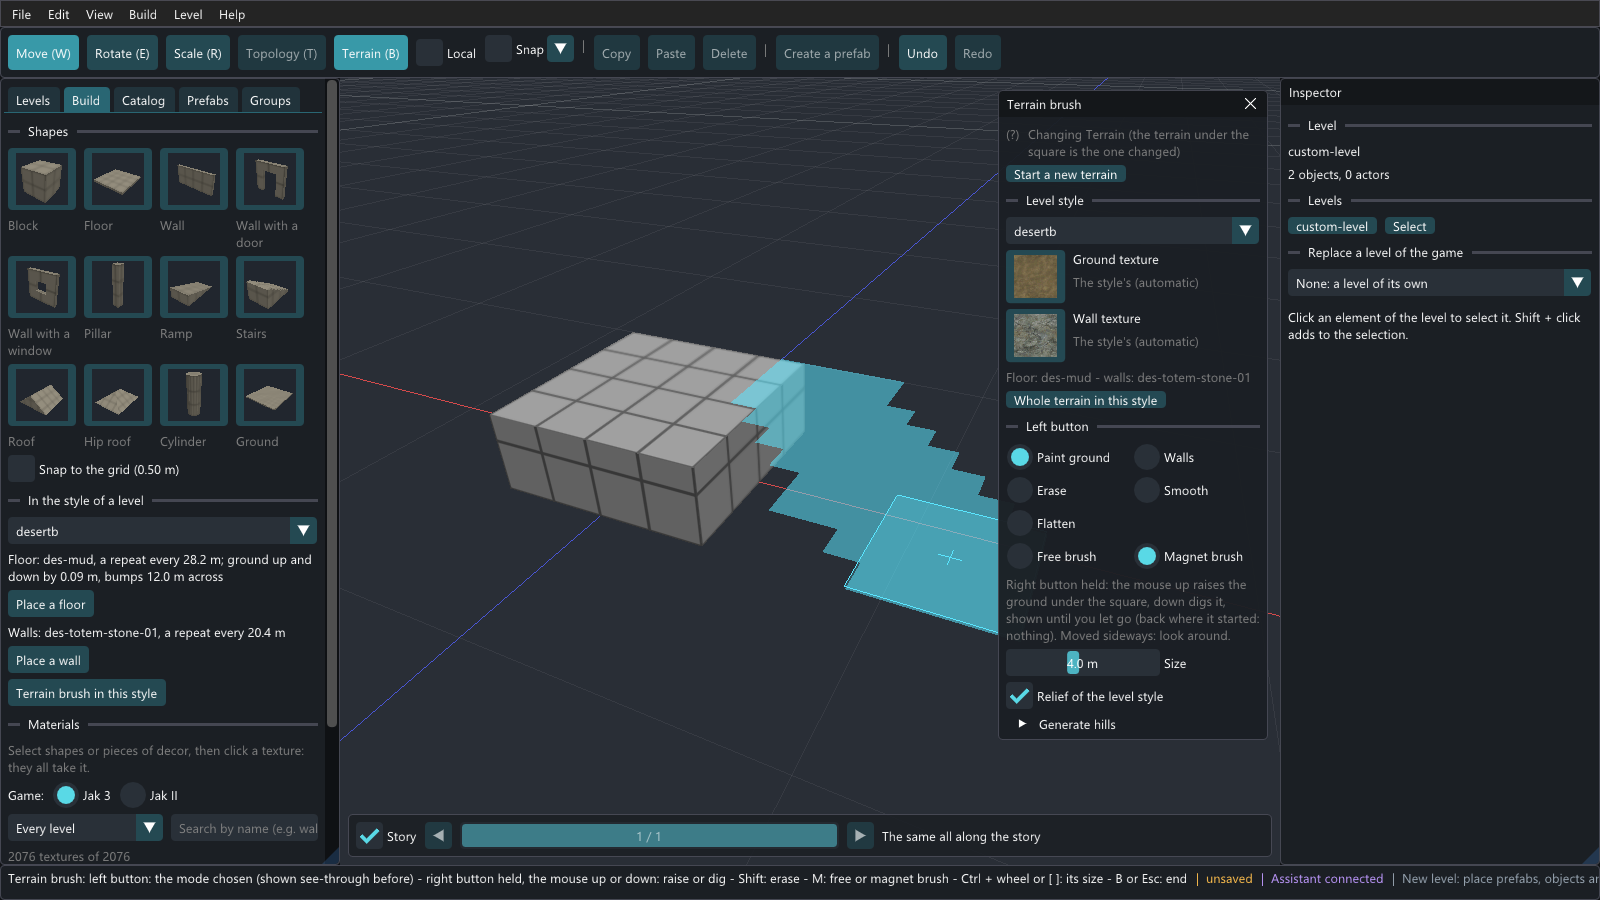
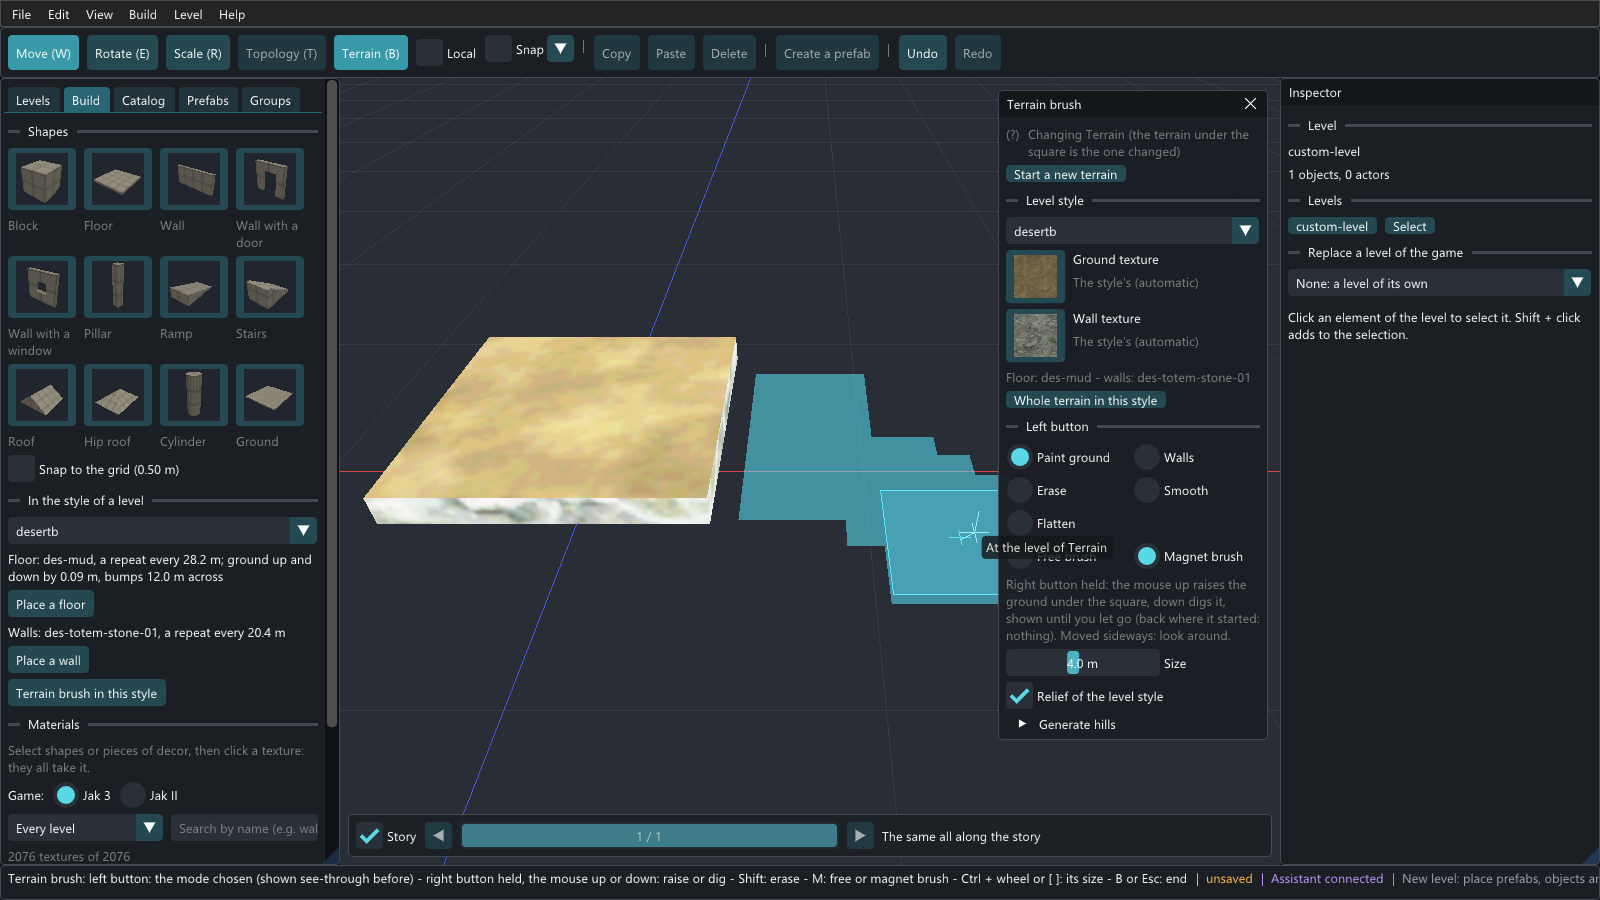
fix: the magnet brush keeps the level of the ground beside it; the right button erasing lays nothing (AI-assisted)
From the user's tries:
- the magnet brush no longer moves the square against the decor's edge: the square follows the
  cursor, and the ground it lays keeps the level of the ground already laid beside it (the
  terrain painted, made larger at its exact level, else the top of the decor next to it, 2 cm
  under), shown at that level before the click and while the button is held;
- in Erase mode the right button never lays ground: it raises or digs what is there, and shows no
  height where it would change nothing.
Captures of the magnet made again.

Changed region(s): [[0.2188, 0.3733, 0.625, 0.7156], [0.5938, 0.5911, 0.6875, 0.6222], [0.5938, 0.4978, 0.625, 0.56]]

diff --git a/src/app/terrain_tool.cpp b/src/app/terrain_tool.cpp
@@ -298,6 +298,7 @@ BrushStroke App::terrain_stamp(BrushMode mode, Vec3 center, float amount, float 
   st.seed = brush.seed;
   st.look = m_stroke_look;
   st.amount = amount;
+  st.lay = brush.mode != BrushMode::Erase;  // the right button erasing: it raises or digs what is there only
   // new ground with the relief of the style (raise and dig lay some where there is none); flat where
   // it sticks to the decor (it meets it with no step)
   const LevelStyle* style = m_style_level.empty() ? nullptr : level_style(m_style_level);
@@ -374,25 +375,38 @@ void App::terrain_tool(bool clicked, bool released) {
   if (!m_terrain_change && m_brush_hit_node && m_brush_hit_node != m_terrain_node)
     if (const Node* h = scene.find(m_brush_hit_node); h && h->extras.contains("og_terrain_grid")) m_terrain_node = h->id;
   const BrushMode mode = io.KeyShift ? inverted(brush.mode) : brush.mode;
-  // the magnet brush (ground, walls, flattening): the square stuck to the edge of the decor beside
-  // it, going under it by half a cell (the cells it lays reach the edge), at the decor's height just
-  // below (no flicker where they meet)
+  // the magnet brush (ground, walls, flattening): the square goes where the cursor is, the ground it
+  // lays at the level of the ground already laid beside it: the terrain painted's nearest, else the
+  // top of the decor beside it (just under it: no flicker where they meet)
   m_magnet_valid = false;
   if (brush.magnet && m_brush_valid && (mode == BrushMode::Paint || mode == BrushMode::Wall || mode == BrushMode::Flatten)) {
-    const float cell = m_terrain_change ? m_terrain_grid.cell : scene.find(m_terrain_node) ? m_terrain_grid_view.cell : brush.cell;
-    const float half = std::max(brush.size * 0.5f, cell * 0.5f);
-    if (length(m_brush_point - m_magnet_asked) > 0.02f || brush.size != m_magnet_asked_size) {
+    const Node* tn = scene.find(m_terrain_node);
+    const TerrainGrid* g = m_terrain_change ? &m_terrain_grid : tn ? &m_terrain_grid_view : nullptr;
+    const float cell = g && g->w ? g->cell : brush.cell;
+    const float reach = std::max(brush.size * 0.5f, cell * 0.5f) + 2.f;
+    if (length(m_brush_point - m_magnet_asked) > 0.02f || brush.size != m_magnet_asked_size || m_terrain_change) {
       m_magnet_asked = m_brush_point;
       m_magnet_asked_size = brush.size;
       m_magnet_node = 0;
-      if (!nearest_decor_edge(scene, m_brush_point, half + 1.5f, 8.f, m_terrain_node, &m_magnet_edge, &m_magnet_node))
+      Vec3 level;
+      if (tn && g && g->w && terrain_level_near(*g, scene.world(*tn).inverse().point(m_brush_point), reach, &level)) {
+        m_magnet_edge = scene.world(*tn).point(level);
+        m_magnet_node = tn->id;
+        m_magnet_below = 0.f;
+      } else if (nearest_decor_edge(scene, m_brush_point, reach, 8.f, m_terrain_node, &m_magnet_edge, &m_magnet_node)) {
+        // another terrain beside: the one painted from now on, made larger at its level
+        const Node* found = scene.find(m_magnet_node);
+        const bool terrain = found && found->extras.contains("og_terrain_grid");
+        if (terrain && !m_terrain_change) m_terrain_node = found->id;
+        m_magnet_below = terrain ? 0.f : 0.02f;
+      } else {
         m_magnet_node = 0;
+      }
     }
     if (m_magnet_node) {
       m_magnet_valid = true;
       m_brush_raw = m_brush_point;
-      m_brush_point = magnet_center(m_brush_point, m_magnet_edge, half, cell * 0.5f + 0.05f);
-      m_brush_point.y = m_magnet_edge.y - 0.02f;
+      m_brush_point.y = m_magnet_edge.y - m_magnet_below;
       // a stroke going on lays its ground at the height of what it sticks to from there on, flat
       if (const Node* tn = m_terrain_change ? scene.find(m_terrain_node) : nullptr) {
         m_stroke_height = scene.world(*tn).inverse().point(m_brush_point).y;
@@ -562,9 +576,10 @@ void App::draw_terrain_overlay() {
   const TerrainGrid& before = node ? grid : empty;
   if (m_terrain_sculpting) {
     const float h = terrain_sculpt_height();
-    draw_terrain_preview(before, terrain_stamp(h > 0 ? BrushMode::Raise : BrushMode::Dig, c, std::fabs(h), c.y), world);
+    // its height next to it (nothing when it changes nothing: erasing over the void)
     Vec2 s;
-    if (renderer.project(m_brush_point, &s)) {
+    if (draw_terrain_preview(before, terrain_stamp(h > 0 ? BrushMode::Raise : BrushMode::Dig, c, std::fabs(h), c.y), world) &&
+        renderer.project(m_brush_point, &s)) {
       ImDrawList* dl = ImGui::GetForegroundDrawList();
       const std::string text = strf("%+.2f m", h);
       const ImVec2 at(m_vp_x + s.x + 16, m_vp_y + s.y - 8), size = ImGui::CalcTextSize(text.c_str());
@@ -578,13 +593,14 @@ void App::draw_terrain_overlay() {
   draw_terrain_preview(before, terrain_stamp(mode, c, amount, terrain_start_height(before, node)), world);
 }
 
-void App::draw_terrain_preview(const TerrainGrid& before, const BrushStroke& stamp, const Mat4& world) {
+bool App::draw_terrain_preview(const TerrainGrid& before, const BrushStroke& stamp, const Mat4& world) {
   TerrainGrid after = before;
-  if (!apply_brush(after, stamp)) return;
+  if (!apply_brush(after, stamp)) return false;
   const float cl = after.cell, half = stamp.size * 0.5f;
   draw_terrain_ghost(before, after, (int)std::floor((stamp.center.x - half) / cl) - 1, (int)std::floor((stamp.center.z - half) / cl) - 1,
                      (int)std::floor((stamp.center.x + half) / cl) + 1, (int)std::floor((stamp.center.z + half) / cl) + 1,
                      stamp.mode, world);
+  return true;
 }
 
 void App::draw_terrain_ghost(const TerrainGrid& before, const TerrainGrid& after, int i0, int k0, int i1, int k1,

diff --git a/src/scene/terrain.cpp b/src/scene/terrain.cpp
@@ -195,7 +195,7 @@ bool apply_brush(TerrainGrid& g, const BrushStroke& s) {
   auto corner = [&](int i, int k) -> float& { return g.height[(size_t)(k - g.z0) * (g.w + 1) + (i - g.x0)]; };
   auto cell = [&](int i, int k) -> uint8_t& { return g.cells[(size_t)(k - g.z0) * g.w + (i - g.x0)]; };
   auto look = [&](int i, int k) -> uint8_t& { return g.look[(size_t)(k - g.z0) * g.w + (i - g.x0)]; };
-  if ((s.mode == BrushMode::Raise || s.mode == BrushMode::Dig) &&
+  if ((s.mode == BrushMode::Raise || s.mode == BrushMode::Dig) && s.lay &&
       g.at((int)std::floor(m.x / c), (int)std::floor(m.z / c)) == TerrainGrid::None) {
     BrushStroke ground = s;
     ground.mode = BrushMode::Paint;
@@ -400,15 +400,20 @@ bool nearest_decor_edge(const Scene& scene, Vec3 at, float reach, float window, 
   return found;
 }
 
-Vec3 magnet_center(Vec3 at, Vec3 edge, float half, float overlap) {
-  Vec3 c{at.x, edge.y, at.z};
-  const float dx = edge.x - at.x, dz = edge.z - at.z;
-  if (std::fabs(dx) >= std::fabs(dz)) {
-    if (std::fabs(dx) > 1e-6f) c.x = edge.x - std::copysign(half - overlap, dx);
-  } else {
-    c.z = edge.z - std::copysign(half - overlap, dz);
-  }
-  return c;
+bool terrain_level_near(const TerrainGrid& g, Vec3 at, float reach, Vec3* point) {
+  const float c = g.cell;
+  float best = std::numeric_limits<float>::max();
+  const int i0 = (int)std::floor((at.x - reach) / c), i1 = (int)std::floor((at.x + reach) / c);
+  const int k0 = (int)std::floor((at.z - reach) / c), k1 = (int)std::floor((at.z + reach) / c);
+  for (int k = std::max(k0, g.z0); k <= std::min(k1, g.z0 + g.d - 1); k++)
+    for (int i = std::max(i0, g.x0); i <= std::min(i1, g.x0 + g.w - 1); i++) {
+      if (g.at(i, k) == TerrainGrid::None) continue;
+      const float x = (i + 0.5f) * c, z = (k + 0.5f) * c, d = std::hypot(x - at.x, z - at.z);
+      if (d > reach || d >= best) continue;
+      best = d;
+      *point = {x, (g.corner(i, k) + g.corner(i + 1, k) + g.corner(i, k + 1) + g.corner(i + 1, k + 1)) * 0.25f, z};
+    }
+  return best < std::numeric_limits<float>::max();
 }
 
 bool terrain_height(const TerrainGrid& g, float x, float z, float* y) {

diff --git a/src/app/selftest.cpp b/src/app/selftest.cpp
@@ -2846,12 +2846,34 @@ int run_selftest() {
     Vec3 edge;
     uint32_t on = 0;
     const bool beside = nearest_decor_edge(ms, {12, 0, 5}, 4, 8, 0, &edge, &on);
-    const Vec3 square = magnet_center({12, 0, 5}, edge, 2, 0.55f);
+    const Vec3 top = edge;
     const bool over = nearest_decor_edge(ms, {5, 2, 5}, 4, 8, 0, &edge);
     const bool far = nearest_decor_edge(ms, {20, 0, 5}, 4, 8, 0, &edge);
-    check(beside && on == platform_id && std::fabs(square.x - 11.45f) < 1e-3f && std::fabs(square.y - 2.f) < 1e-3f &&
-              std::fabs(square.z - 5.f) < 1e-3f && !over && !far,
-          "magnet brush: beside a platform the square sticks to its edge at its top, half a cell under it; not over it nor far");
+    // ... and of a terrain painted, the level of its ground nearest to the square (3 m up there)
+    TerrainGrid painted;
+    BrushStroke lay;
+    lay.size = 4.f;
+    lay.center = {2, 0, 2};
+    lay.height = 3.f;
+    apply_brush(painted, lay);
+    Vec3 level;
+    const bool near_terrain = terrain_level_near(painted, {6, 0, 2}, 4, &level);
+    const bool far_terrain = terrain_level_near(painted, {12, 0, 2}, 4, &level);
+    check(beside && on == platform_id && std::fabs(top.x - 10.f) < 1e-3f && std::fabs(top.y - 2.f) < 1e-3f && !over && !far &&
+              near_terrain && !far_terrain,
+          "magnet brush: the level of the platform beside the square (its top), of the terrain painted next to it; not over, not far");
+    // the right button erasing raises the ground there is, never lays any
+    TerrainGrid none2 = painted;
+    BrushStroke rise;
+    rise.mode = BrushMode::Raise;
+    rise.amount = 1.f;
+    rise.size = 4.f;
+    rise.center = {20, 0, 20};
+    rise.lay = false;
+    const bool laid_nothing = !apply_brush(none2, rise) && none2.at(20, 20) == TerrainGrid::None;
+    rise.lay = true;
+    check(laid_nothing && apply_brush(none2, rise) && none2.at(20, 20) == TerrainGrid::Ground,
+          "terrain brush: raising without laying ground (the right button erasing) leaves the void as it is");
   }
 
   {

diff --git a/src/app/app.h b/src/app/app.h
@@ -553,7 +553,7 @@ class App {
     float wall_height = 4.f;  // meters above the ground
     float cell = 1.f;         // a new terrain's cells (meters)
     bool relief = true;       // paint: the level style's bumps
-    bool magnet = false;      // the magnet brush: the square stuck to the edge of the decor beside it
+    bool magnet = false;      // the magnet brush: the ground laid at the level of the ground already there beside it
     Vec2 gen_size{64, 64};    // generate: the rectangle (meters)
     float hills = 12.f, roughness = 0.5f;
     int seed = 1;
@@ -579,8 +579,10 @@ class App {
   Vec3 m_brush_point{0, 0, 0};
   bool m_brush_valid = false;
   uint32_t m_brush_hit_node = 0;  // what the brush is over (0: the plane)
-  // the magnet brush: where the cursor is, the edge of the decor the square sticks to, its piece
+  // the magnet brush: where the cursor is, the point of the ground whose level it keeps, its piece,
+  // how far below it the ground is laid (the decor's: 2 cm, not to flicker)
   bool m_magnet_valid = false;
+  float m_magnet_below = 0.f;
   bool m_stroke_stuck = false;  // the stroke stuck to the decor once: flat all along (a platform made longer)
   Vec3 m_brush_raw{0, 0, 0}, m_magnet_edge{0, 0, 0};
   uint32_t m_magnet_node = 0;
@@ -607,7 +609,7 @@ class App {
   bool terrain_right_button(Vec2 rel);
   void draw_terrain_overlay();
   // what a stamp would change, see-through, before it is done
-  void draw_terrain_preview(const TerrainGrid& before, const BrushStroke& stamp, const Mat4& world);
+  bool draw_terrain_preview(const TerrainGrid& before, const BrushStroke& stamp, const Mat4& world);  // false: it changes nothing
   // the cells of [i0, i1] x [k0, k1] changed from `before` to `after`, see-through
   void draw_terrain_ghost(const TerrainGrid& before, const TerrainGrid& after, int i0, int k0, int i1, int k1,
                           BrushMode mode, const Mat4& world);

diff --git a/tools/capture_docs.py b/tools/capture_docs.py
@@ -299,12 +299,12 @@ def building(args, e):
     # there, outwards (the platform made longer, shown before it is let go)
     e.call('new_level', {'discard_changes': True})
     e.loaded()
-    e.call('place', {'kind': 'shape', 'name': 'box', 'position': [0, 0, 0], 'size': [8, 3, 8]})
+    e.call('terrain', {'mode': 'paint', 'position': [0, 3, 0], 'size': 10, 'relief': False})
     e.call('select', {'ids': []})
-    e.call('set_camera', {'position': [14, 14, 18], 'look_at': [6, 1, 0]})
-    e.ui([{'move': [900, 520]}, wait(3), {'key': 'B'}, wait(5), {'key': 'M'}, wait(2)] + [{'key': '['}, wait(2)] * 6 +
-         [{'move': [860, 470]}, wait(8)], shot=out('building', 'terrain-magnet.png'))
-    e.ui([{'down': 'left'}, wait(2), {'move': [880, 490]}, wait(2), {'move': [910, 520]}, wait(2), {'move': [950, 560]},
+    e.call('set_camera', {'position': [8, 16, 20], 'look_at': [8, 0, 0]})
+    e.ui([{'move': [810, 472]}, wait(3), {'key': 'B'}, wait(5), {'key': 'M'}, wait(2)] + [{'key': '['}, wait(2)] * 6 +
+         [{'move': [811, 472]}, wait(8)], shot=out('building', 'terrain-magnet.png'))
+    e.ui([{'down': 'left'}, wait(2), {'move': [870, 472]}, wait(2), {'move': [930, 500]}, wait(2), {'move': [960, 540]},
           wait(8)], shot=out('building', 'terrain-magnet-held.png'))
     e.ui([{'key': 'Escape'}, wait(3), {'up': 'left'}, wait(3), {'key': 'M'}, wait(2), {'key': 'B'}, wait(3)])
     # the atoll, a level of Jak II, opened in the game rendering

diff --git a/src/scene/terrain.h b/src/scene/terrain.h
@@ -59,6 +59,7 @@ struct BrushStroke {
   float bumps = 0.f, bump_size = 3.f;
   int seed = 1;
   int look = 0;  // paint, wall: the look given to the cells (in the grid's `looks`)
+  bool lay = true;  // raise, dig: ground laid first where there is none under its middle
 };
 
 // Applies the brush: the cells whose middle is in the square, the corners in it (for raise, dig,
@@ -87,9 +88,9 @@ void generate_terrain(TerrainGrid& g, Vec3 center, Vec2 size, float hills, float
 // decor under `at`).
 bool nearest_decor_edge(const Scene& scene, Vec3 at, float reach, float window, uint32_t skip, Vec3* edge,
                         uint32_t* node = nullptr);
-// The middle of a square of half side `half` moved from `at` so that its side towards `edge` goes
-// `overlap` meters past it (along the axis of that side), its height the edge's
-Vec3 magnet_center(Vec3 at, Vec3 edge, float half, float overlap);
+// The ground of a terrain nearest to `at` (its space) within `reach` meters across: the middle of
+// that cell at the height of its ground (a wall's foot for a wall); false when there is none
+bool terrain_level_near(const TerrainGrid& g, Vec3 at, float reach, Vec3* point);
 
 // The terrain's height at (x, z) (bilinear over its cell); false where there is no ground
 bool terrain_height(const TerrainGrid& g, float x, float z, float* y);

diff --git a/README.md b/README.md
@@ -398,17 +398,18 @@ raise the ground there, **down** to dig it: the new shape and its height show un
 once. The brush changes the terrain under the square; the ground takes the textures of a level's
 style automatically (the desert's sand and rock, the slums' cobbles).
 
-**Free brush** or **Magnet brush** (**M**): with the magnet, the square sticks to the edge of the decor next
-to it (a platform, a quay, a floor; not small props), the piece named next to it. The ground laid
-there is at the height of the decor's top (2 cm under it), flat, and goes under its edge so that
-they meet with no gap and no step; a stroke started there keeps that height: a quay made longer
-over the water, a floor brought to a platform.
+**Free brush** or **Magnet brush** (**M**): both follow the cursor. The free brush lays its ground at the
+height where the stroke starts; the magnet brush keeps the level of the ground already laid beside
+the square: the terrain you are painting (made larger at its level), else the top of the decor
+next to it (a platform, a quay: 2 cm under it; not small props), named next to the square. The
+preview shows the ground at that level before you click and while you hold the button. The right
+button never lays ground while erasing: it raises or digs what is there.
 
 | The terrain brush in the style of the desert: hills, a riverbed dug, a walled yard, a hill raised | The right button held and the mouse moved up: the hill it raises, before it is let go |
 |---|---|
 | ![terrain](docs/captures/building/terrain.png) | ![raise](docs/captures/building/terrain-raise.png) |
 
-| The magnet brush next to a block: the square stuck to its edge, at its top | Held from there: the platform made longer, shown before it is let go |
+| The magnet brush next to a terrain laid 3 m up: the square at its level | Held from there: the terrain made larger at its level, shown before it is let go |
 |---|---|
 | ![magnet](docs/captures/building/terrain-magnet.png) | ![magnet held](docs/captures/building/terrain-magnet-held.png) |
 
